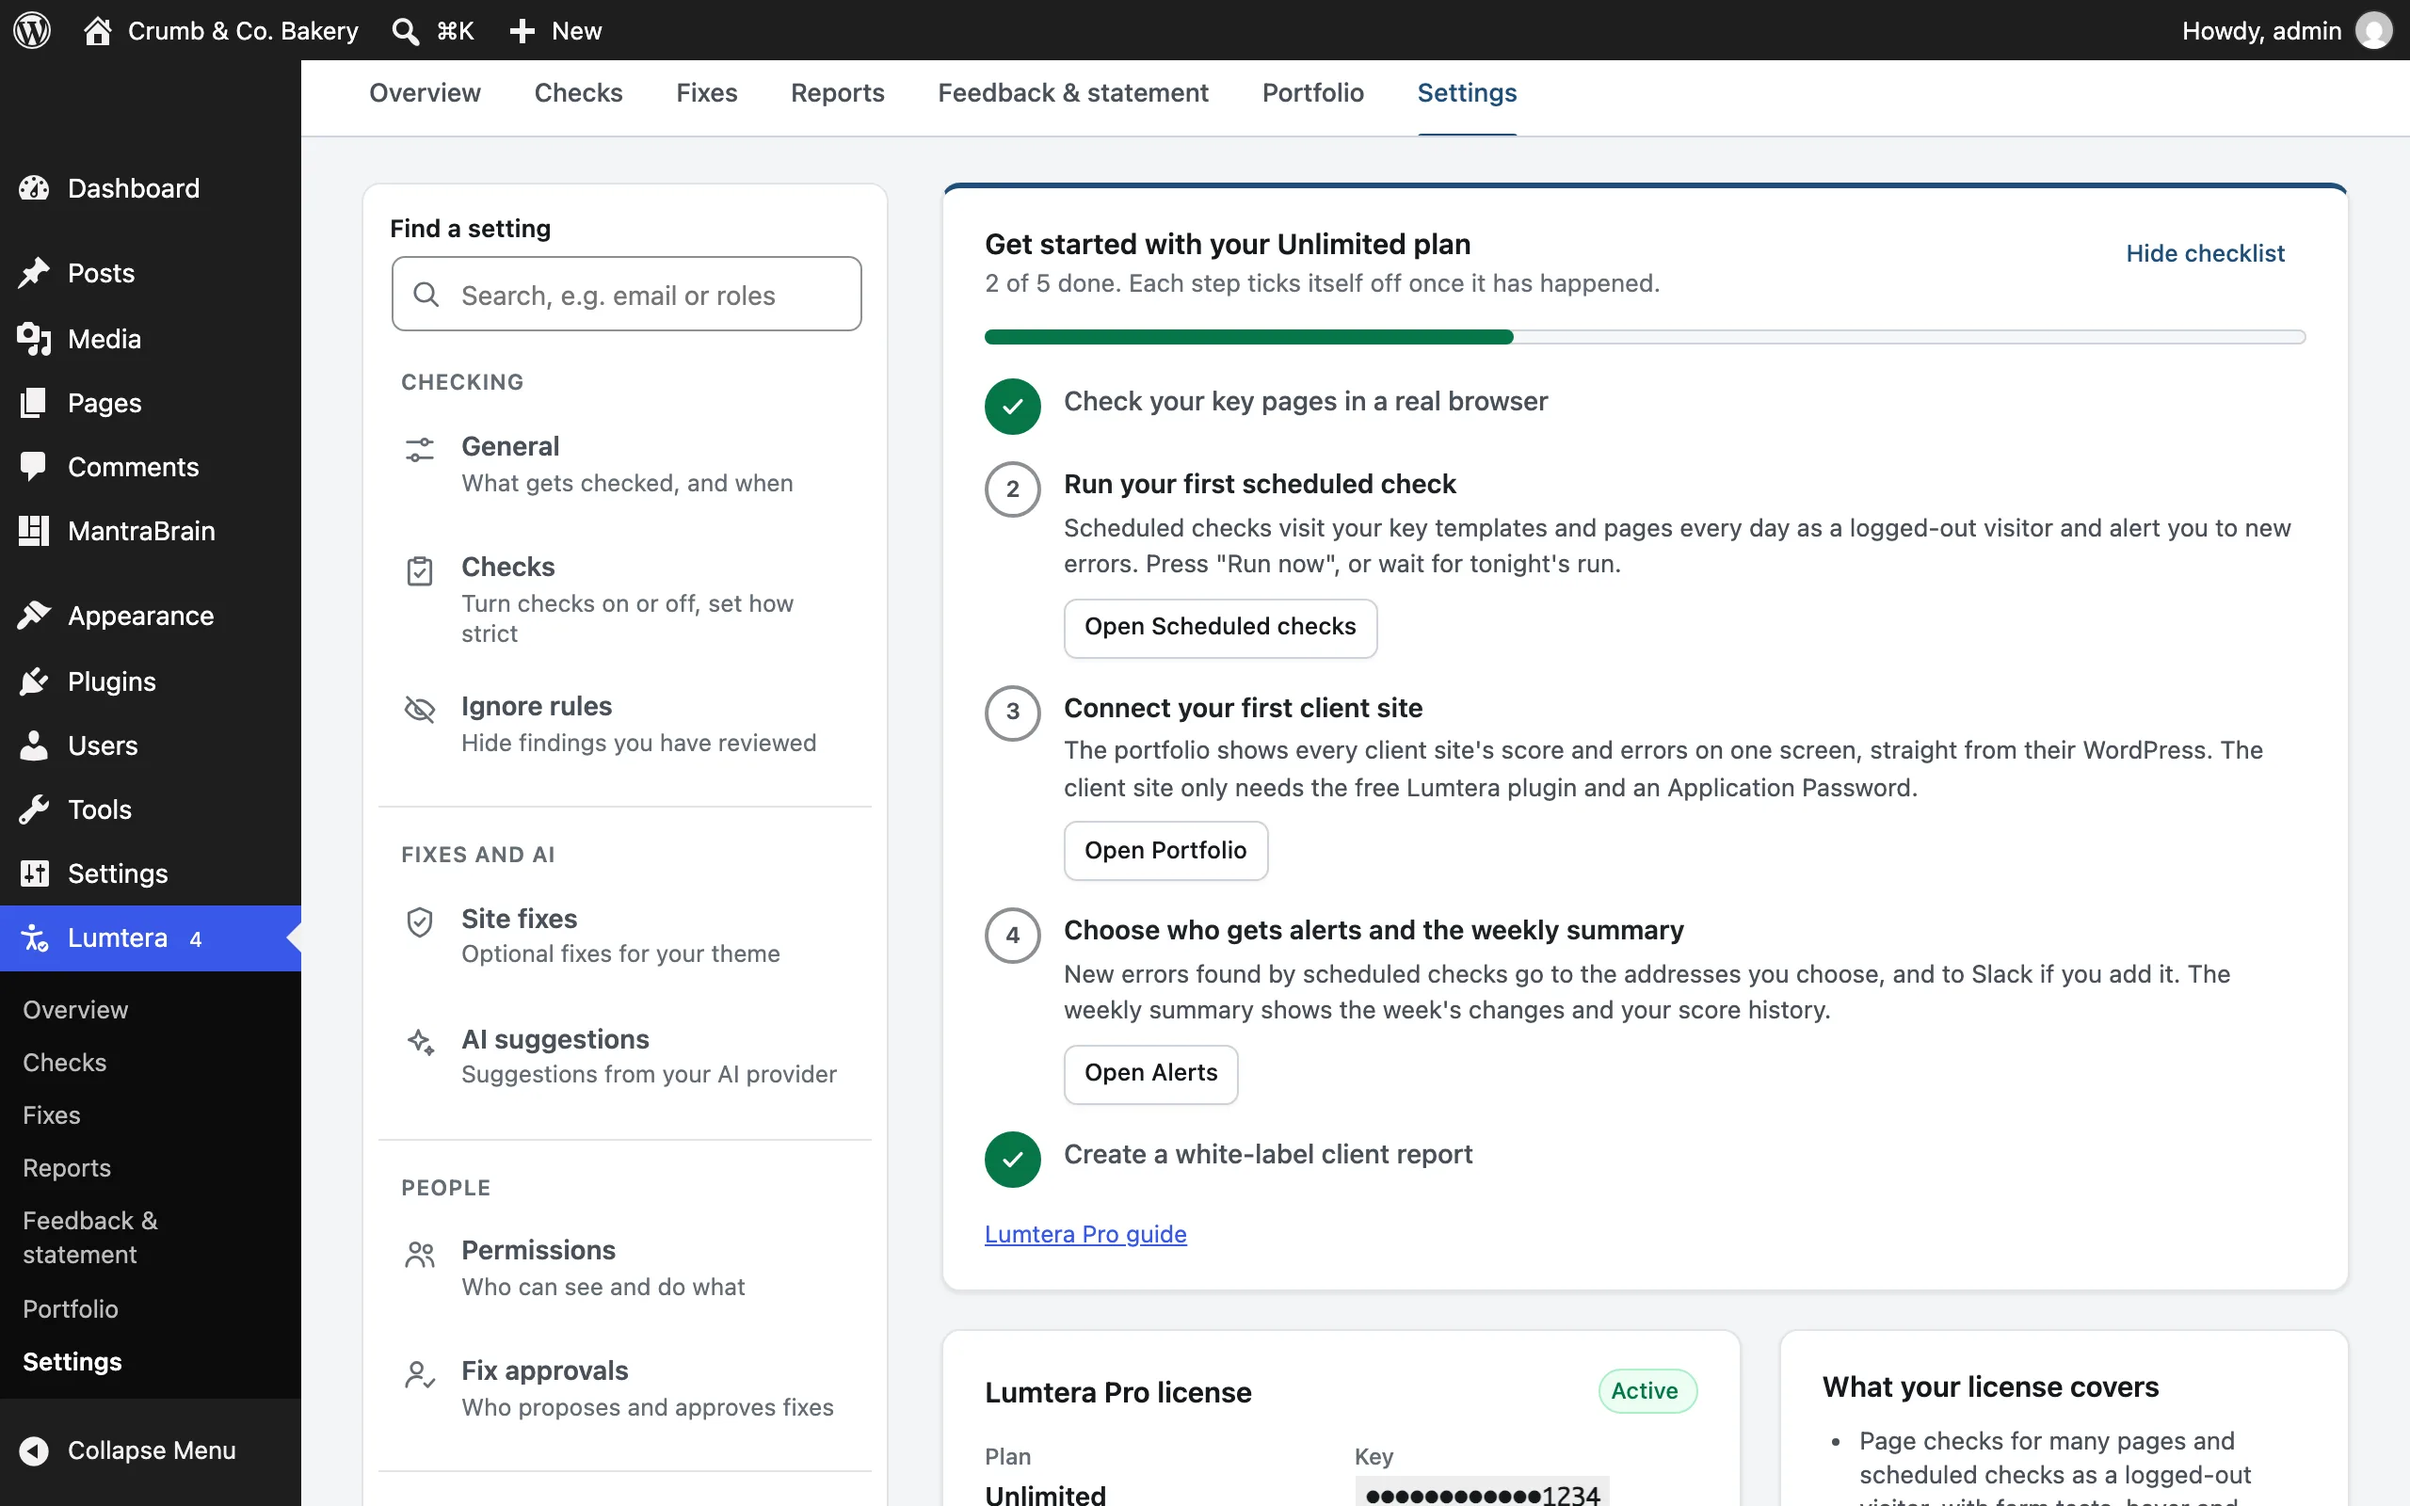
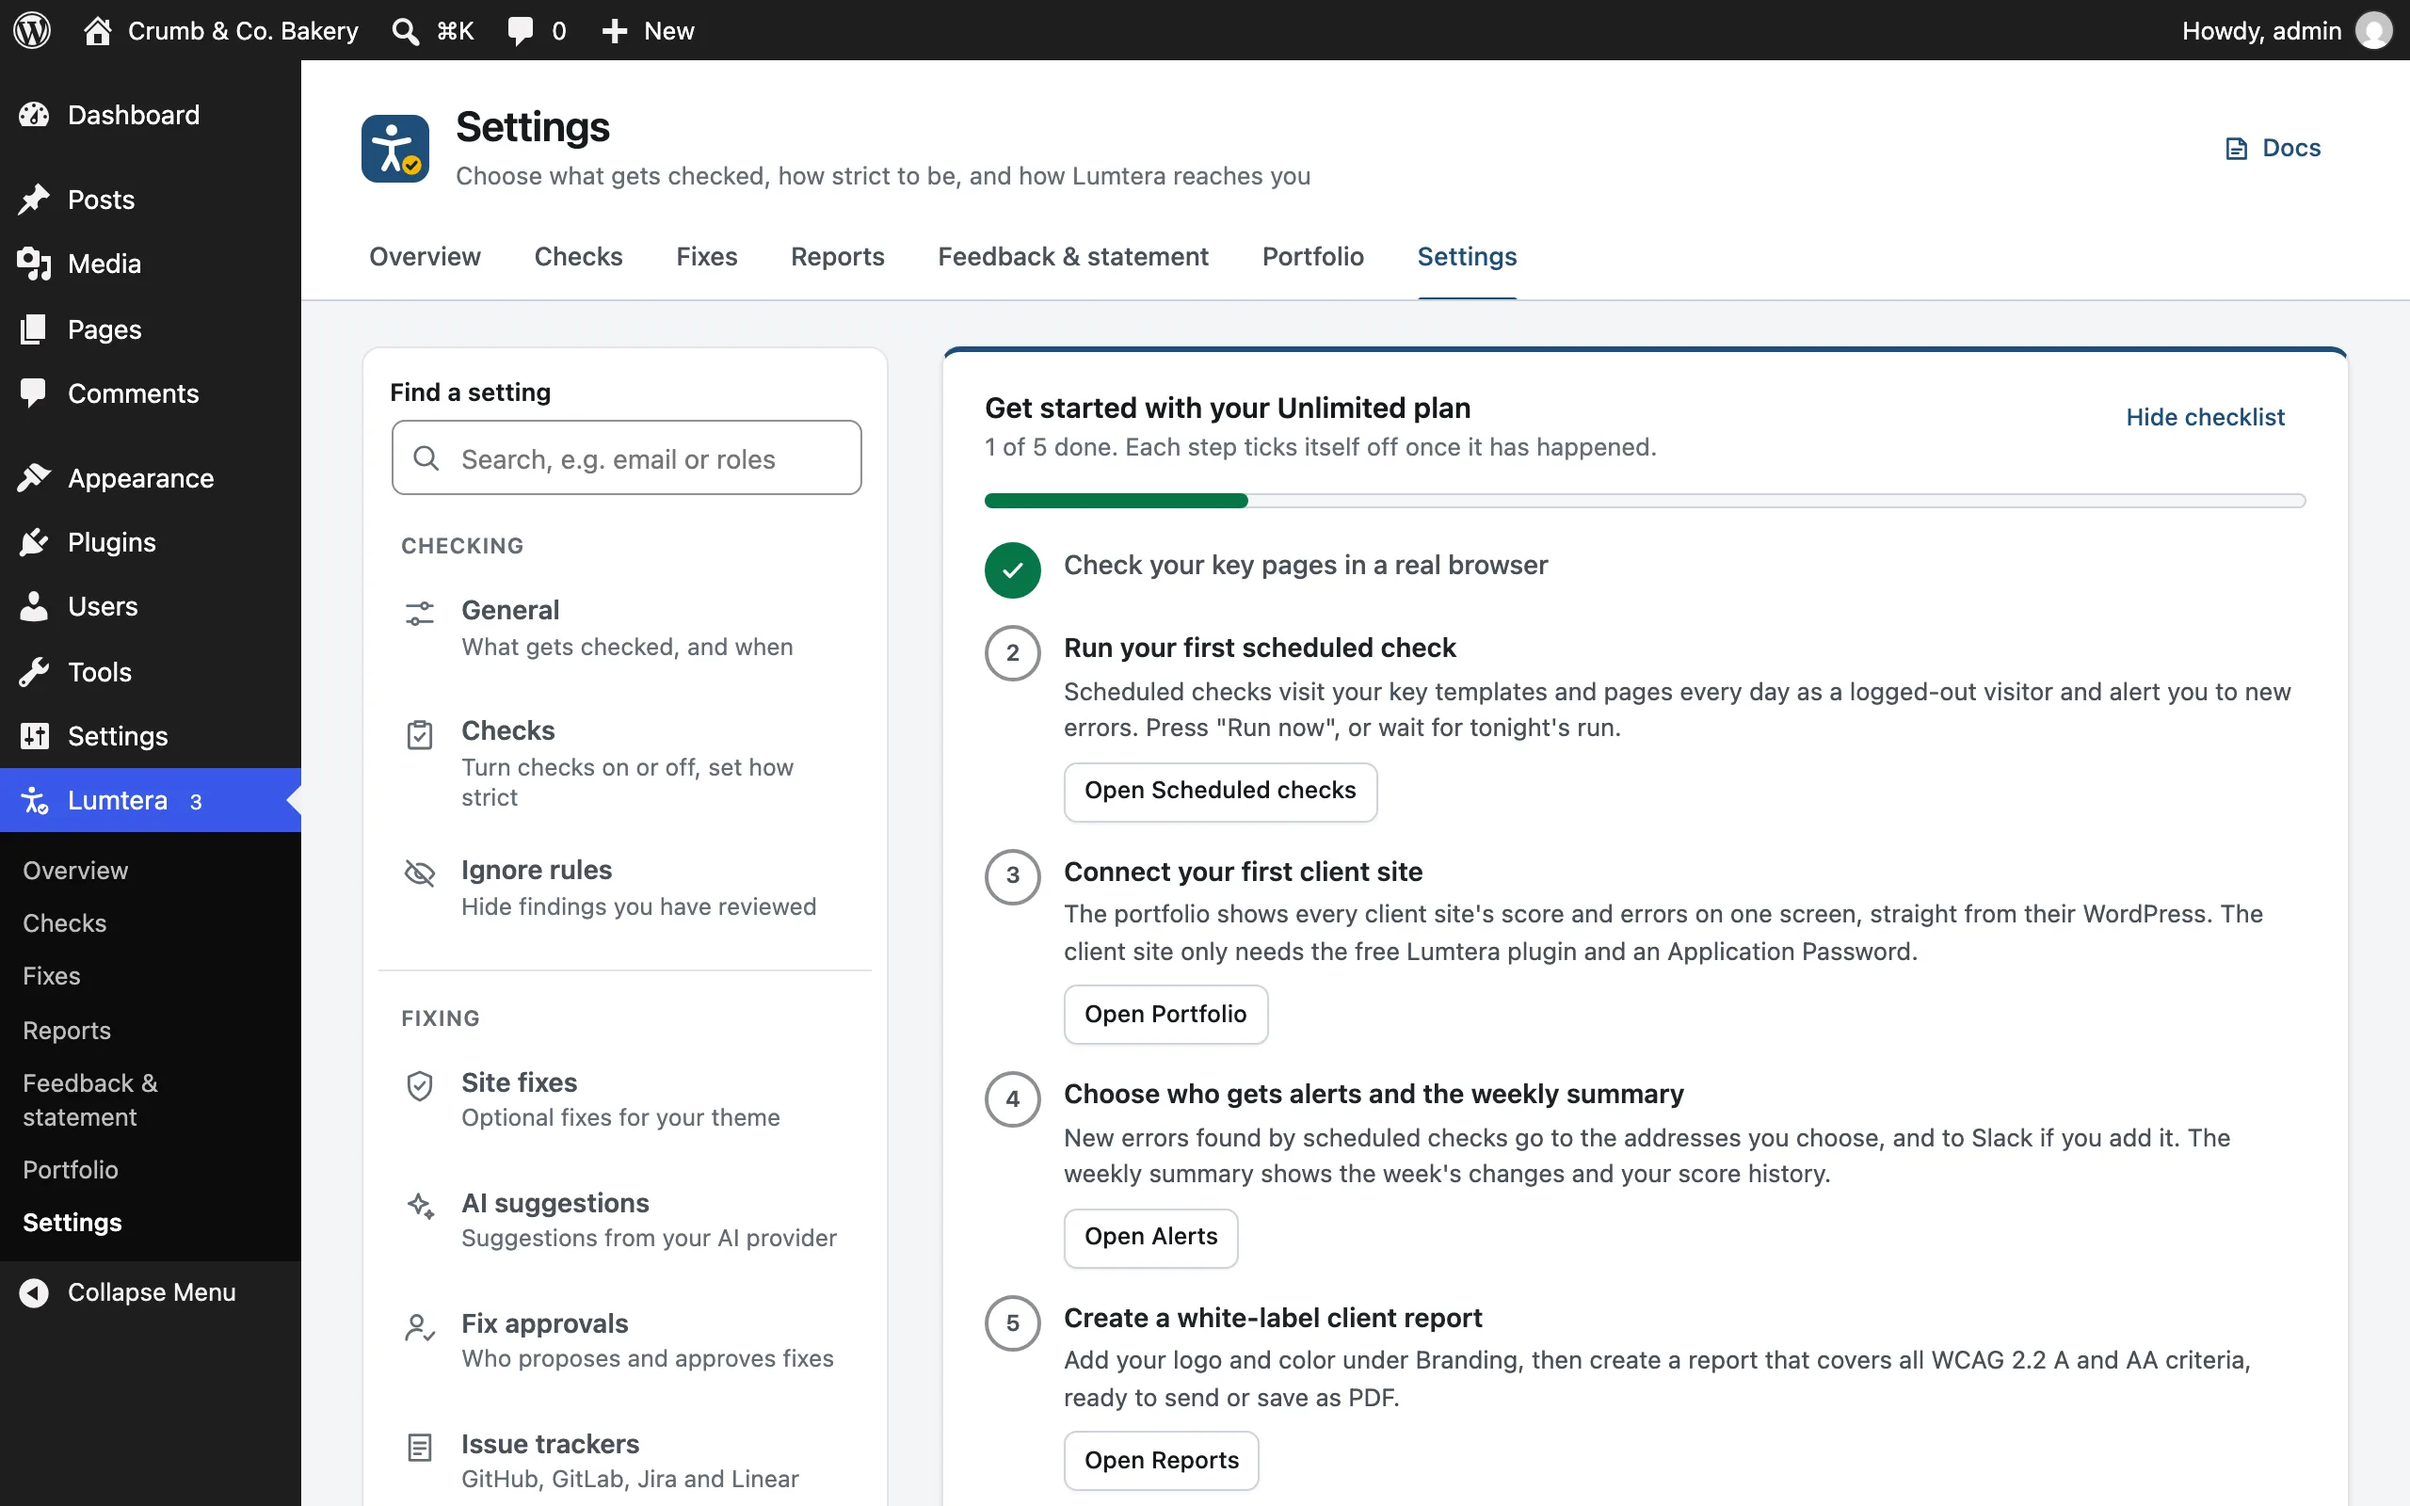
Recapture 18 screenshots on Lumtera 1.2.1 and Pro 1.1.0
Taken from a throwaway site on origin/main (free ece1d2a, Pro a89a166)
at 2560x1600: the grouped menu and sub-tabs, the five Pro previews, the
new settings groups, the Pro 1.1.0 license card and first-run checklist,
Compare scans under Checks and the Fixes order. Alt text updated where
the frame changed.

diff --git a/docs/site-report.md b/docs/site-report.md
@@ -9,7 +9,7 @@ description: The Overview with its coverage meter, Get started checklist and wee
 
 <span class="screen-path">Lumtera → Overview</span> is your site at a glance. By default, editors and administrators can open it. Administrators choose which roles can under <span class="screen-path">Lumtera → Settings → Permissions</span>, in **See reports and check the site**. See [Roles & permissions](/permissions).
 
-![The Overview: score, errors, items to review, content checked, review coverage, a Pro tip and Fix once, clear many](/screenshots/screenshot-3.webp)
+![The Overview: score, errors, items to review, content checked, review coverage, the most common issues and the items that need attention](/screenshots/screenshot-3.webp)
 
 ### Get started checklist {#get-started-checklist}
 

diff --git a/docs/pro/license.md b/docs/pro/license.md
@@ -38,7 +38,7 @@ If it works, you come straight back to the same screen, now unlocked, with *"Lic
 
 ## First-run checklist {#first-run-checklist}
 
-![The first-run checklist on the License screen: Get started with your Unlimited plan, 2 of 5 done](/screenshots/pro-first-run.webp)
+![The first-run checklist on the License screen: Get started with your Unlimited plan, 1 of 5 done](/screenshots/pro-first-run.webp)
 
 After you activate a license, administrators see **Get started with your … plan** on the Overview and the License screen: five steps chosen for your plan. Each step ticks itself off once it has happened, so there's nothing to mark by hand.
 

diff --git a/docs/settings.md b/docs/settings.md
@@ -95,7 +95,7 @@ On a multisite network, each site keeps or deletes its own data as set on that s
 
 ### Weekly home page check {#weekly-home-page-check}
 
-![The Weekly home page check card under Settings, General, below Before publishing](/screenshots/settings-home-check.webp)
+![The When Lumtera is deleted and Weekly home page check cards under Settings, General](/screenshots/settings-home-check.webp)
 
 **Off** by default. Click **Check my home page every week** to turn it on (or turn it on from the [getting-started checklist](/quick-start#the-getting-started-checklist), together with the weekly email).
 
